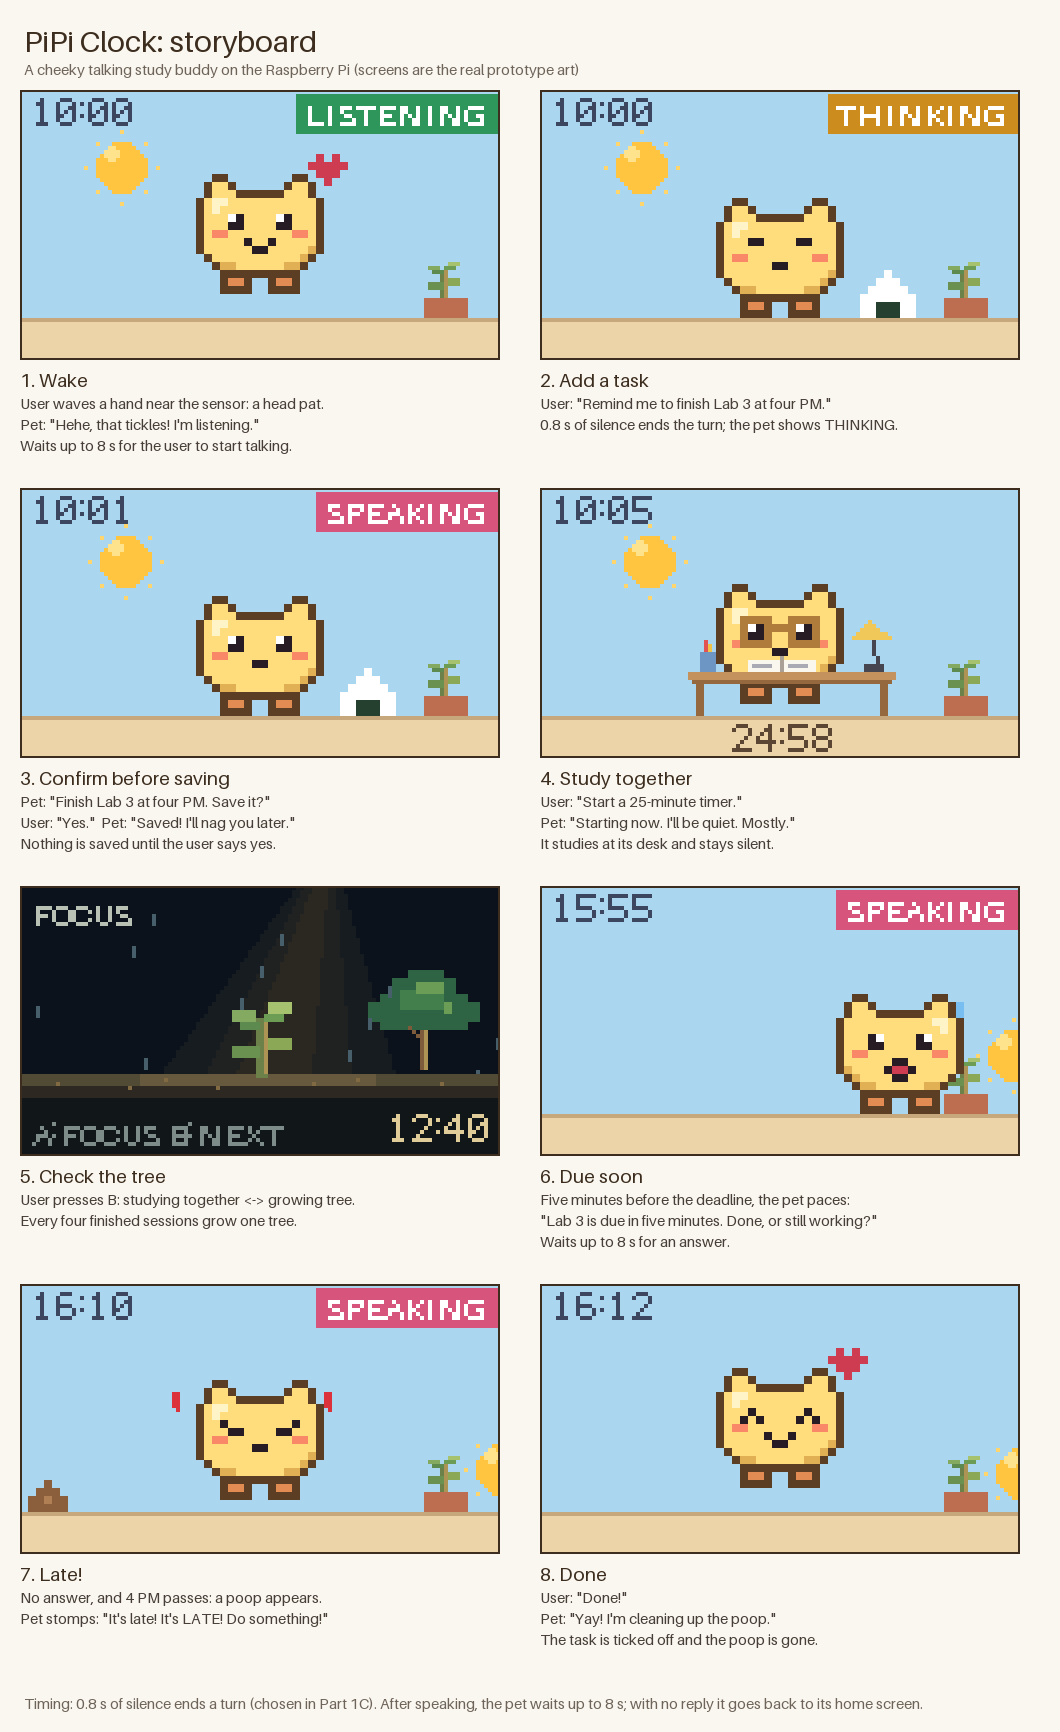
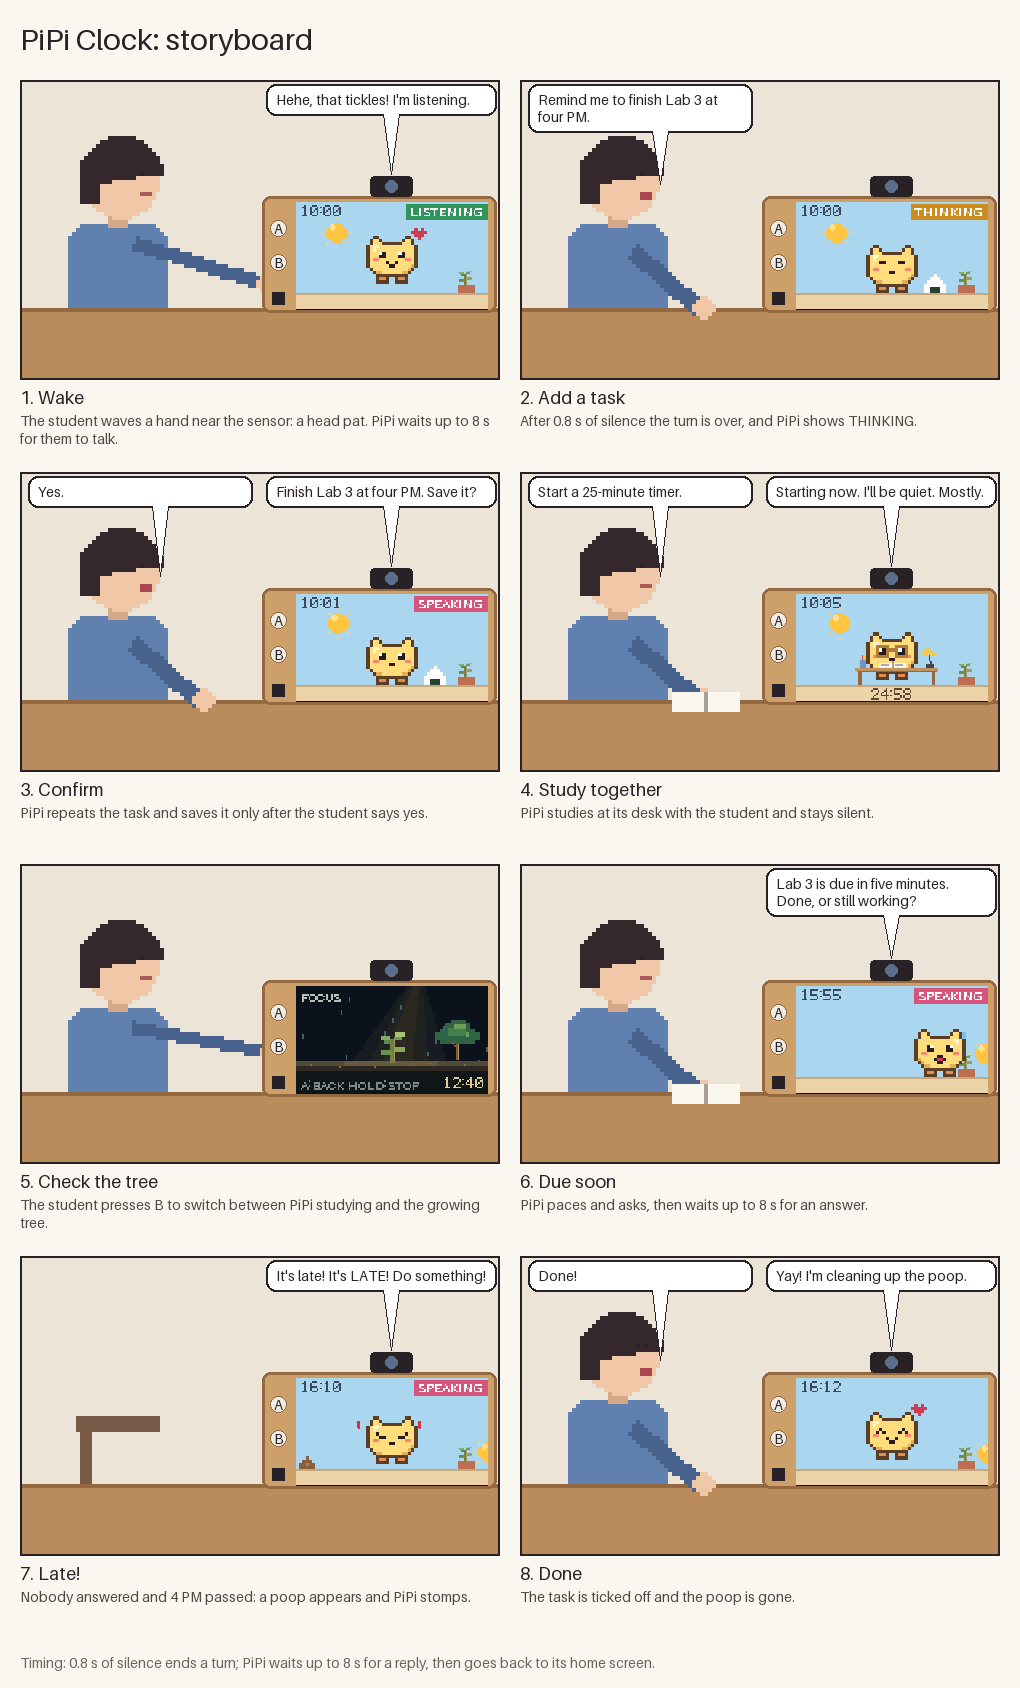
Lab 3: Part 2 prep answers, new storyboard, first test notes; redraw 1D storyboard

diff --git a/Lab 3/README.md b/Lab 3/README.md
@@ -374,12 +374,28 @@ My friend had not seen the script. Even so, the acted-out dialogue went exactly 
 
 For Part 2, you will redesign the interaction with the speech-enabled device using the data collected, as well as feedback from part 1.
 
+</details>
+
 ## Prep for Part 2
 
 1. What are concrete things that could use improvement in the design of your device? For example: wording, timing, anticipation of misunderstandings.
+
+   The wording could sound more like a little pet and be cuter. The 0.8 s delay felt fine to me. Next I want to anticipate misunderstandings: users might get annoyed and say things like "You didn't understand me," so I will collect what upset users might say, recognize those phrases, and play a prepared reply asking them to move closer to the microphone because PiPi couldn't hear them clearly.
+
 2. What are other modes of interaction *beyond speech* that you might also use to clarify how to interact? In particular: how does someone know when the device is listening, and when it is thinking? You have a screen and an LED.
+
+   On top of the screen, my new design adds three LEDs. A red LED shows an urgent task, a blue LED shows that PiPi is listening or processing, and a green LED shows that a task is done. My reason is that the LEDs show the information users need to know most often, while thinking can be seen on the screen.
+
 3. Make a new storyboard, diagram and/or script based on these reflections.
+
+   This is my new storyboard and script:
+
+   ![New PiPi Clock storyboard with LEDs](part2_storyboard.jpg)
+
 4. (optional) Integrate [input devices](inputs.md) in the system
+
+<details>
+<summary>Instructions</summary>
 
 ## Prototype your system
 
@@ -401,7 +417,9 @@ Answer the following:
 </details>
 
 ### What worked well about the system and what didn't?
-\*\**your answer here*\*\*
+Speech recognition was not very smooth. The screenshot below is from my speech recognition test, and most of the transcripts were wrong. The animation was smooth, and patting PiPi through the sensor to make it listen to us felt intuitive.
+
+![Speech recognition test log](part2_testing.png)
 
 ### What worked well about the controller and what didn't?
 \*\**your answer here*\*\*
